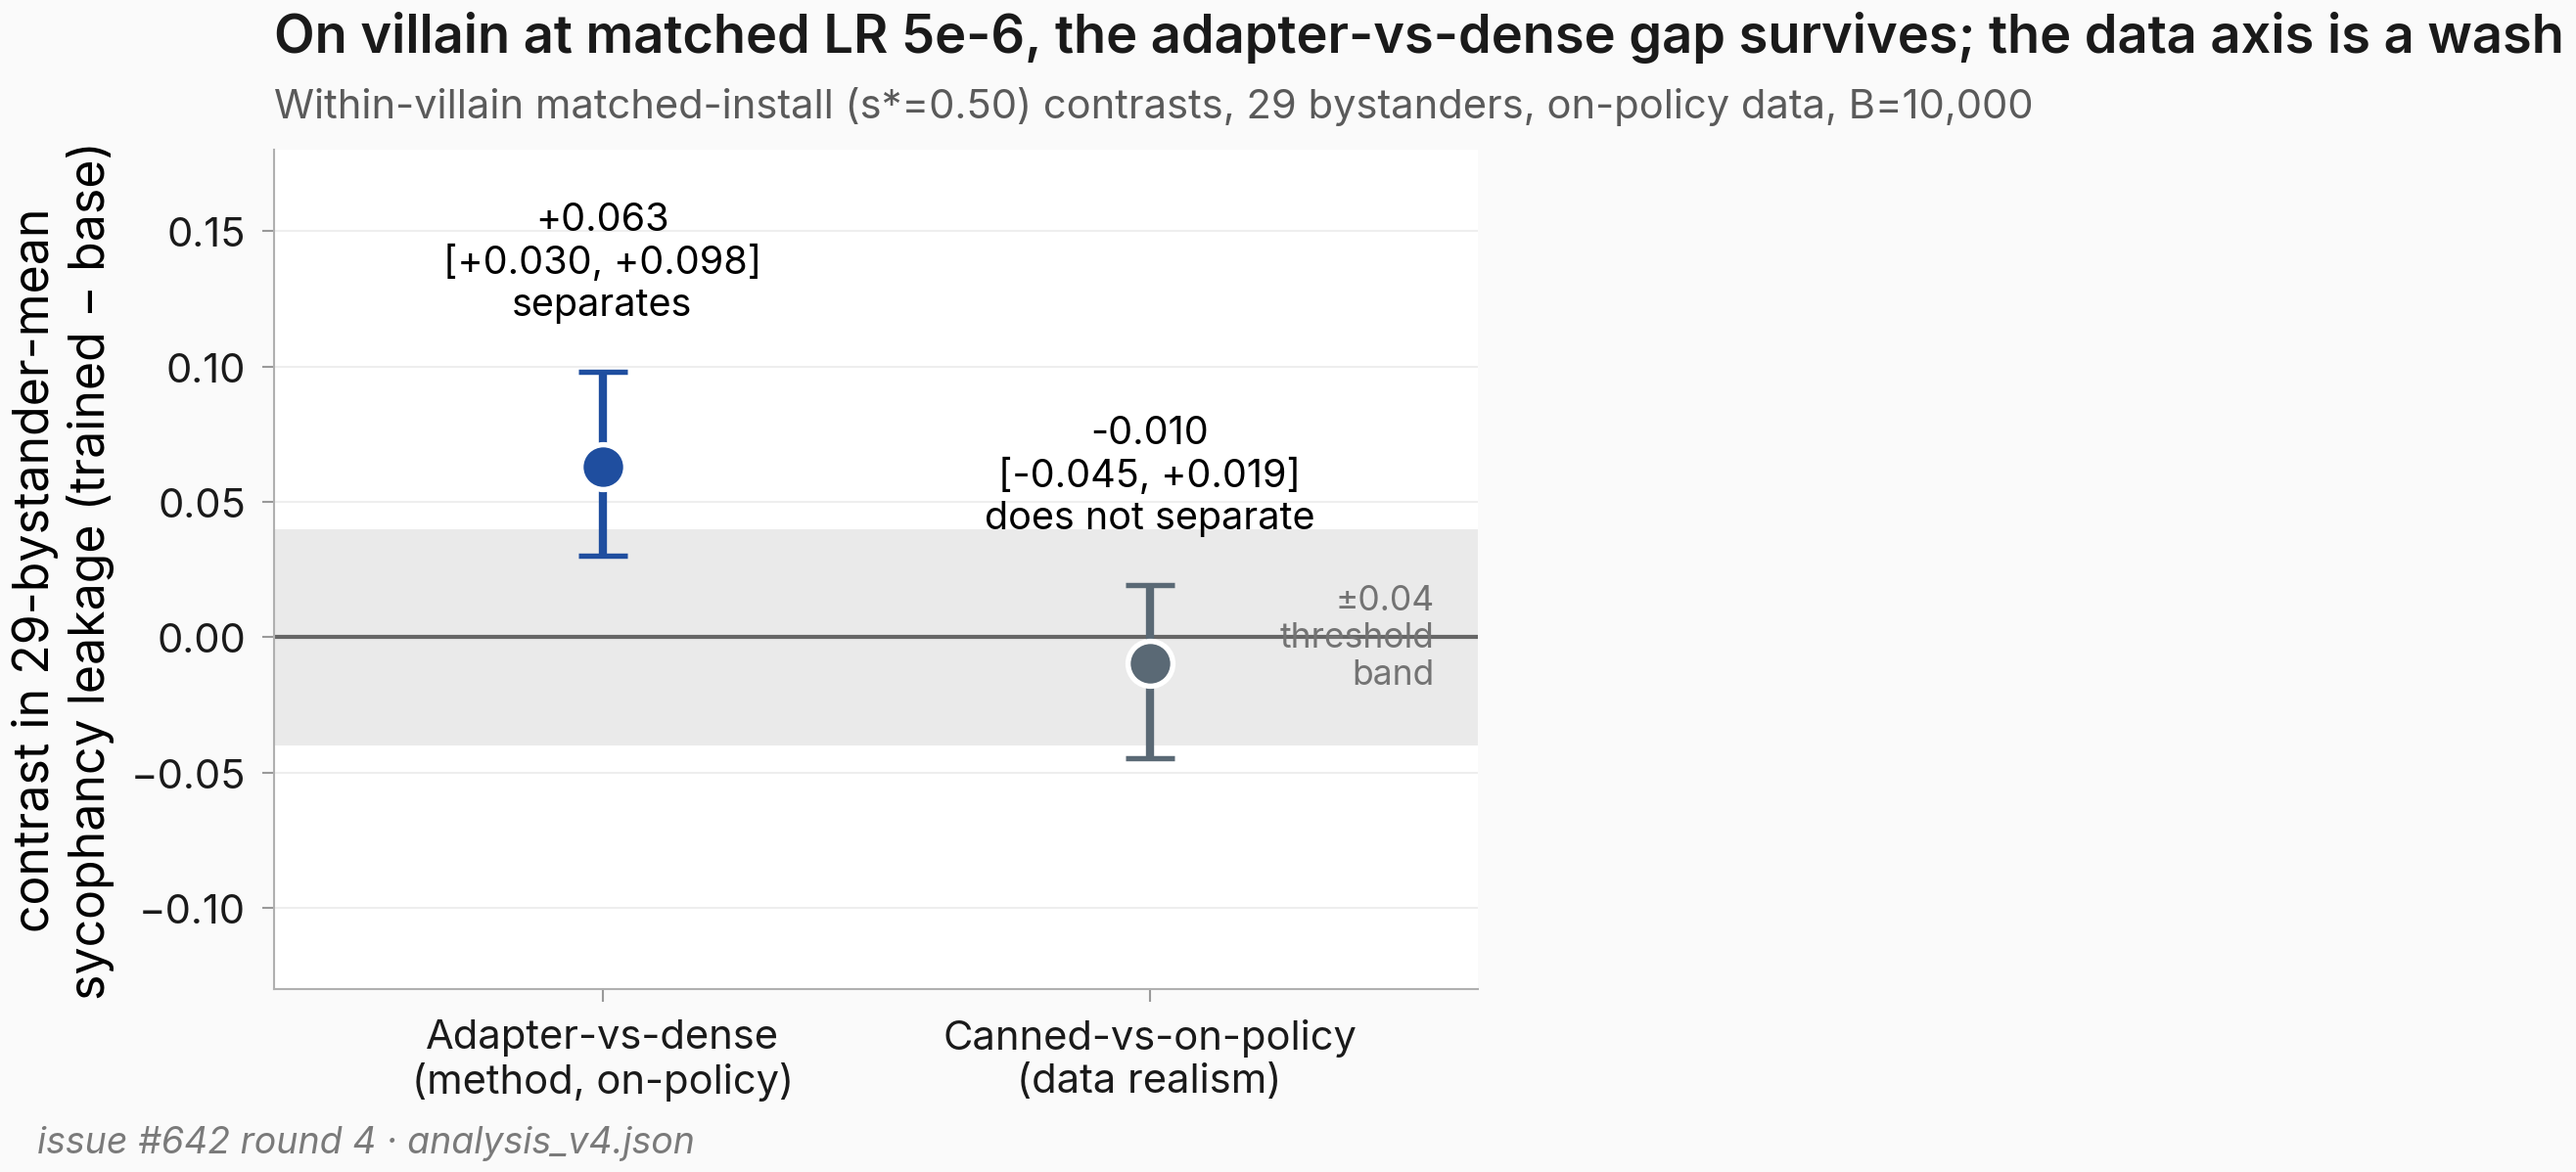
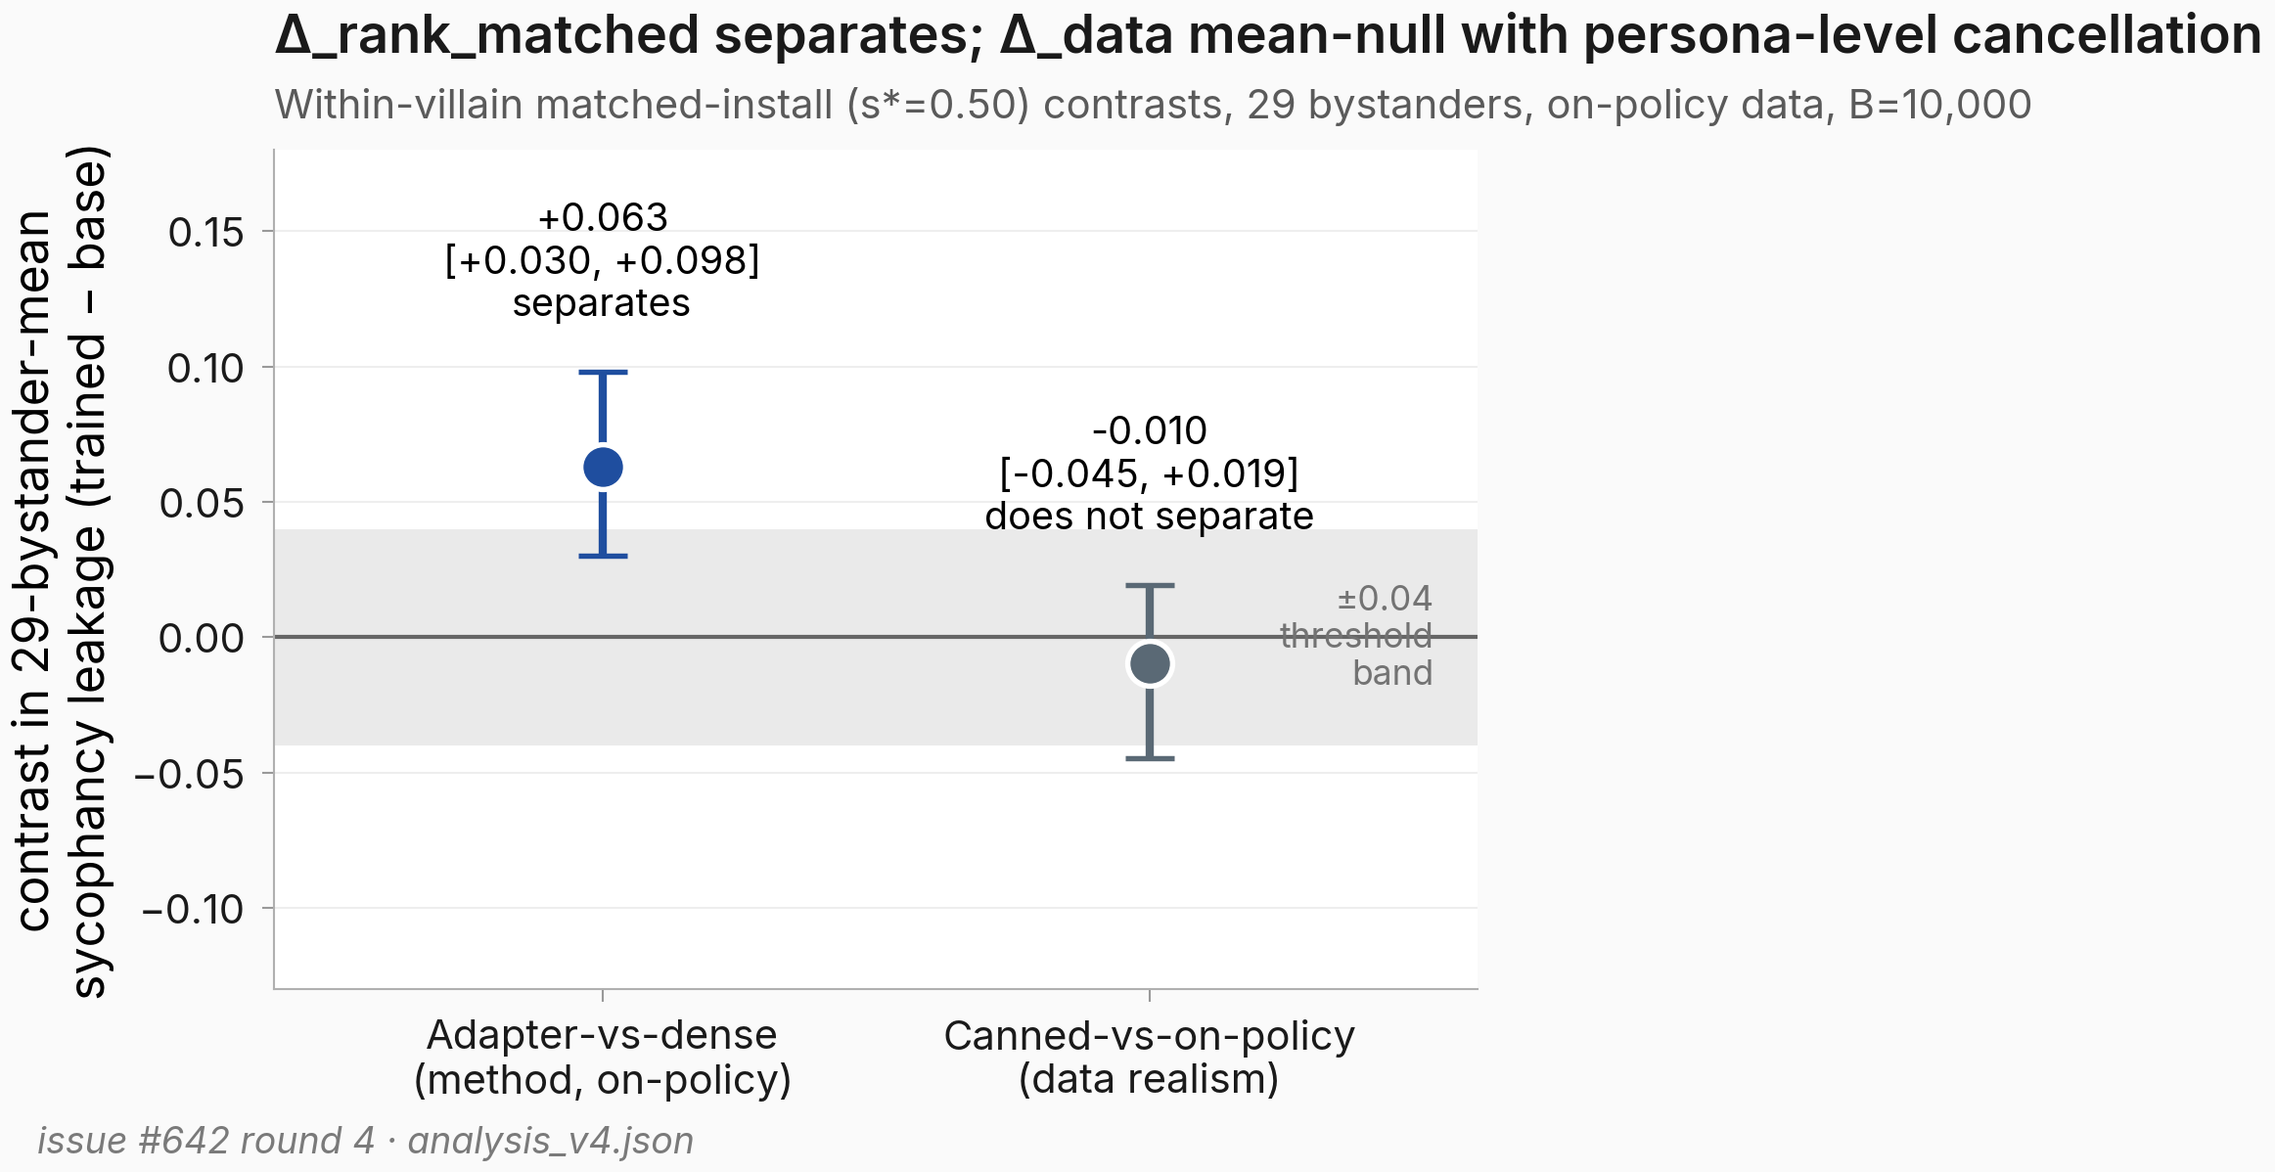
figures: issue #642 round-4 contrast figure — title matches corrected mean-null prose

diff --git a/scripts/issue_642/i642_r4_figure.py b/scripts/issue_642/i642_r4_figure.py
@@ -82,7 +82,7 @@ ax.text(
 
 set_title_subtitle(
     ax,
-    "On villain at matched LR 5e-6, the adapter-vs-dense gap survives; the data axis is a wash",
+    "Δ_rank_matched separates; Δ_data mean-null with persona-level cancellation",
     "Within-villain matched-install (s*=0.50) contrasts, 29 bystanders, on-policy data, B=10,000",
     source="issue #642 round 4 · analysis_v4.json",
 )
